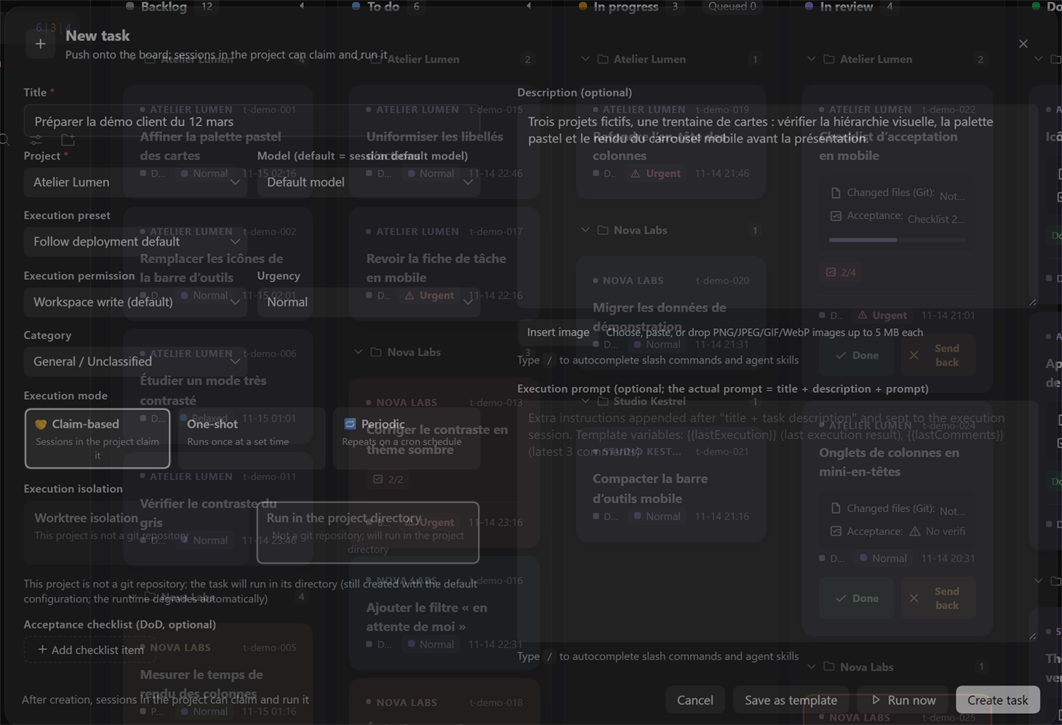
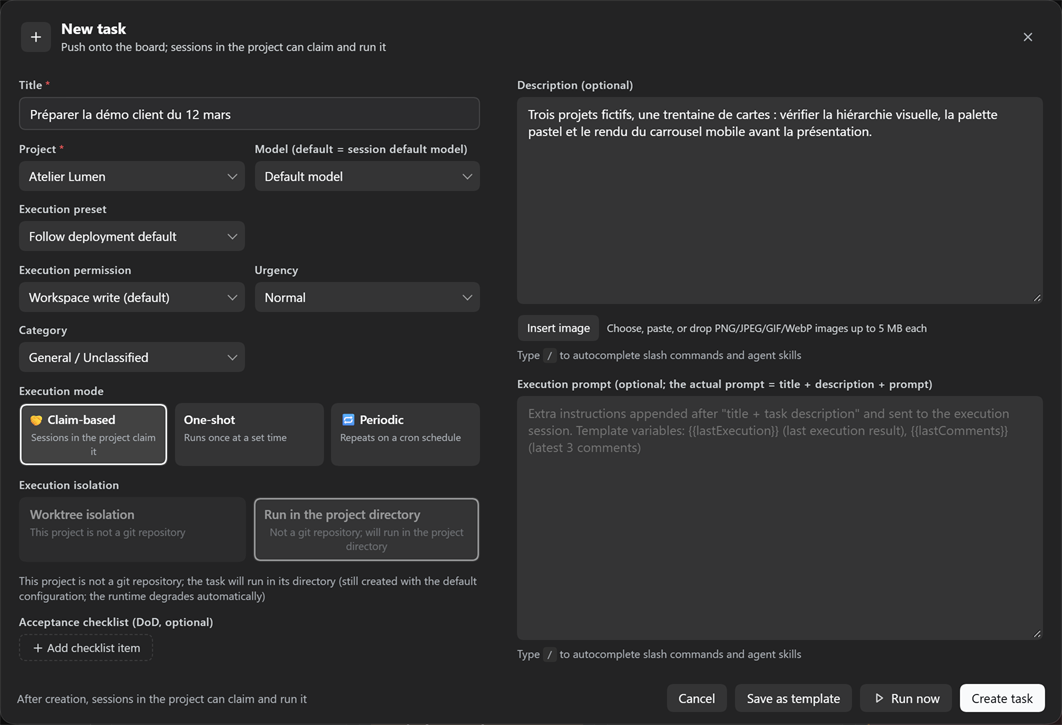
fix(readme): shoot the new-task dialog after its opening animation
img/modal.png showed the dialog over a visible, dimmed board: it read as two
images superimposed in transparency. Cause: Page.captureScreenshot re-renders the
page for the capture, which restarts the dialog's dsh-atb-pop animation
(translateY(8px) scale(.98)); the clip framed a dialog drawn at ~98 % of the
rectangle measured on the live page, so the dimmed board filled the margin.

- readme-capture.mjs now freezes animations and transitions before every shot
  (animation/transition-duration: 0s + getAnimations().finish()), waits two
  frames, re-measures the rectangle AFTER the screenshot and throws if it moved
  or if the element still carries a transform.
- the new img/modal.png is the dialog itself: 1062x725, surface 35,35,36, the
  four rounded corners showing the dimmed backdrop at 12,12,12, residual
  transform "none", mean luminance 0.187 (the ghost image measured 0.137).
- docs/design/HERO-SHOTS.md documents the trap and the per-shot assertion.

Verified: hero-shots -Capture readme from a dev worktree; clip stable between
measure and capture for the board, the dialog and the phone; 30 cards over
12/6/3/4/5, toolbar density "wide", dialog mode=create with the demo title,
phone focus=portrait with 5 tabs, dark theme applied. img/board.png and
img/phone.png re-rendered identically apart from 0.28 % of samples, so they are
left untouched.

diff --git a/docs/design/HERO-SHOTS.md b/docs/design/HERO-SHOTS.md
@@ -97,9 +97,20 @@ tree. `readme-capture.mjs` then:
    0 rejected;
 2. captures the panel at a 2040 px window: the host keeps a 280 px sidebar, so the
    panel is exactly 1760 px — the halved master is 2× the README's `width="880"`;
-3. opens the new-task dialog, types demo values, blurs the caret and clips the
-   dialog alone (1062×725);
+3. clicks **New task → Blank task** exactly like a user, types demo values, blurs
+   the caret and clips the dialog alone (1062×725);
 4. repeats the portrait pass at 390×844 (panel 390×796).
+
+**The dialog trap.** The first version of the script captured the dialog at the
+first frame of its opening animation: `Page.captureScreenshot` re-renders the page
+for the shot, which restarts `dsh-atb-pop` (`translateY(8px) scale(.98)`), so the
+clip framed a dialog drawn at 98 % of its measured box — the dimmed board showed
+around it and read as *two images superimposed in transparency*. Every shot now
+goes through `shootElement()`, which injects `animation/transition-duration: 0s`,
+runs `document.getAnimations().forEach(a => a.finish())`, waits two frames,
+re-measures the rectangle **after** the capture and rethrows if it moved or if the
+element still carries a transform. The capture is therefore exactly the last frame
+a user sees.
 
 The masters are written at `deviceScaleFactor: 2` in
 `scripts/qa/reports/readme-<stamp>/` together with `readme-shots.json`. The
@@ -107,16 +118,18 @@ desktop and dialog masters are then halved with `System.Drawing`
 (`HighQualityBicubic`) and copied over `img/`; the phone master is used as is
 (2× of its 390 px layout). `readme-shots.json` records, per shot, the clip
 rectangle, the hit-test proving the panel (or dialog) is what is under the
-cursor, the 30 cards spread over the five columns, the toolbar density (`wide`),
-the dialog's `mode`/title/submit state, and the phone's `data-atb-focus`,
-column count and active tab — no shot is accepted on faith.
+cursor, the residual transform/opacity at capture time, the 30 cards spread over
+the five columns, the toolbar density (`wide`), the dialog's
+`mode`/title/submit state, and the phone's `data-atb-focus`, column count and
+active tab — no shot is accepted on faith.
 
 Measured on the current dark run: `img/board.png` mean luminance **0.178**
-(0.67 % near-white pixels), `img/modal.png` **0.137**, `img/phone.png` **0.195**;
-`reachable: true` on all three, dialog `mode=create` with the demo title typed,
-phone `focus=portrait`, 5 columns, 5 tabs, active tab `To do · 6`, and the theme
-applied (`dark: true`) — the host follows `prefers-color-scheme`, the plugin
-never forces a theme.
+(0.67 % near-white pixels), `img/modal.png` **0.187** (dialog surface
+`35,35,36`, the four rounded corners showing the dimmed backdrop at `12,12,12`),
+`img/phone.png` **0.195**; `reachable: true` on all three, dialog `mode=create`
+with the demo title typed and `transform: none`, phone `focus=portrait`, 5
+columns, 5 tabs, active tab `To do · 6`, and the theme applied (`dark: true`) —
+the host follows `prefers-color-scheme`, the plugin never forces a theme.
 
 ## Limits
 
